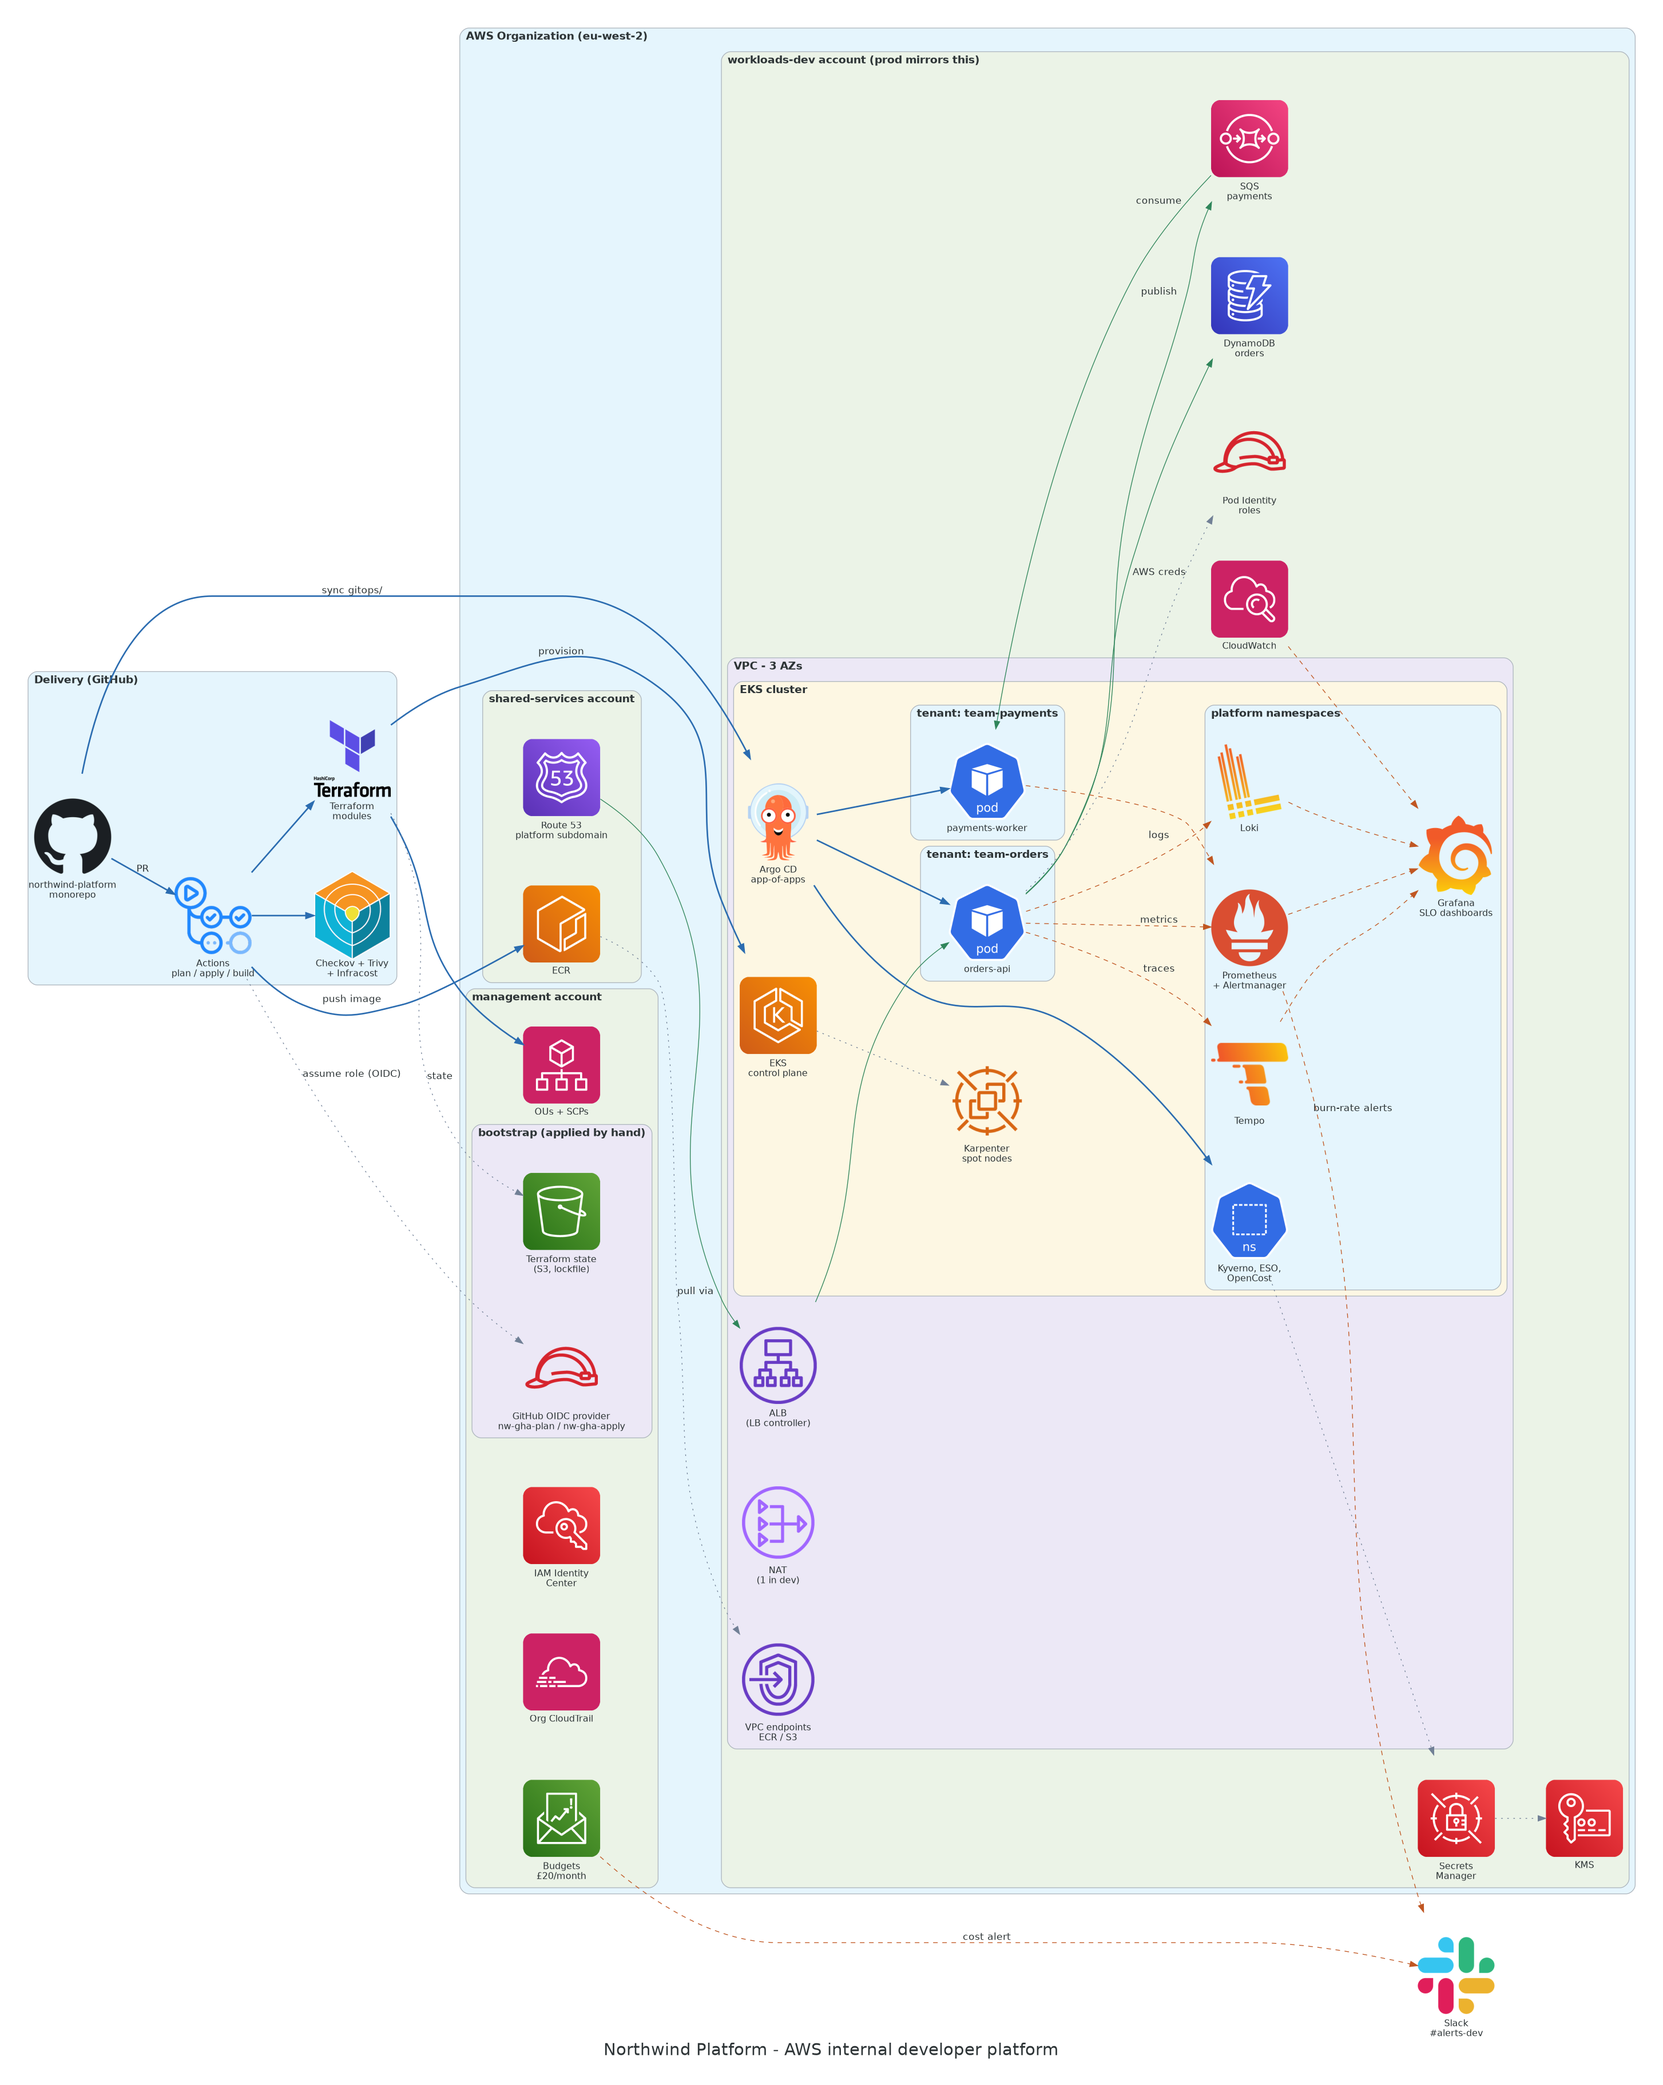
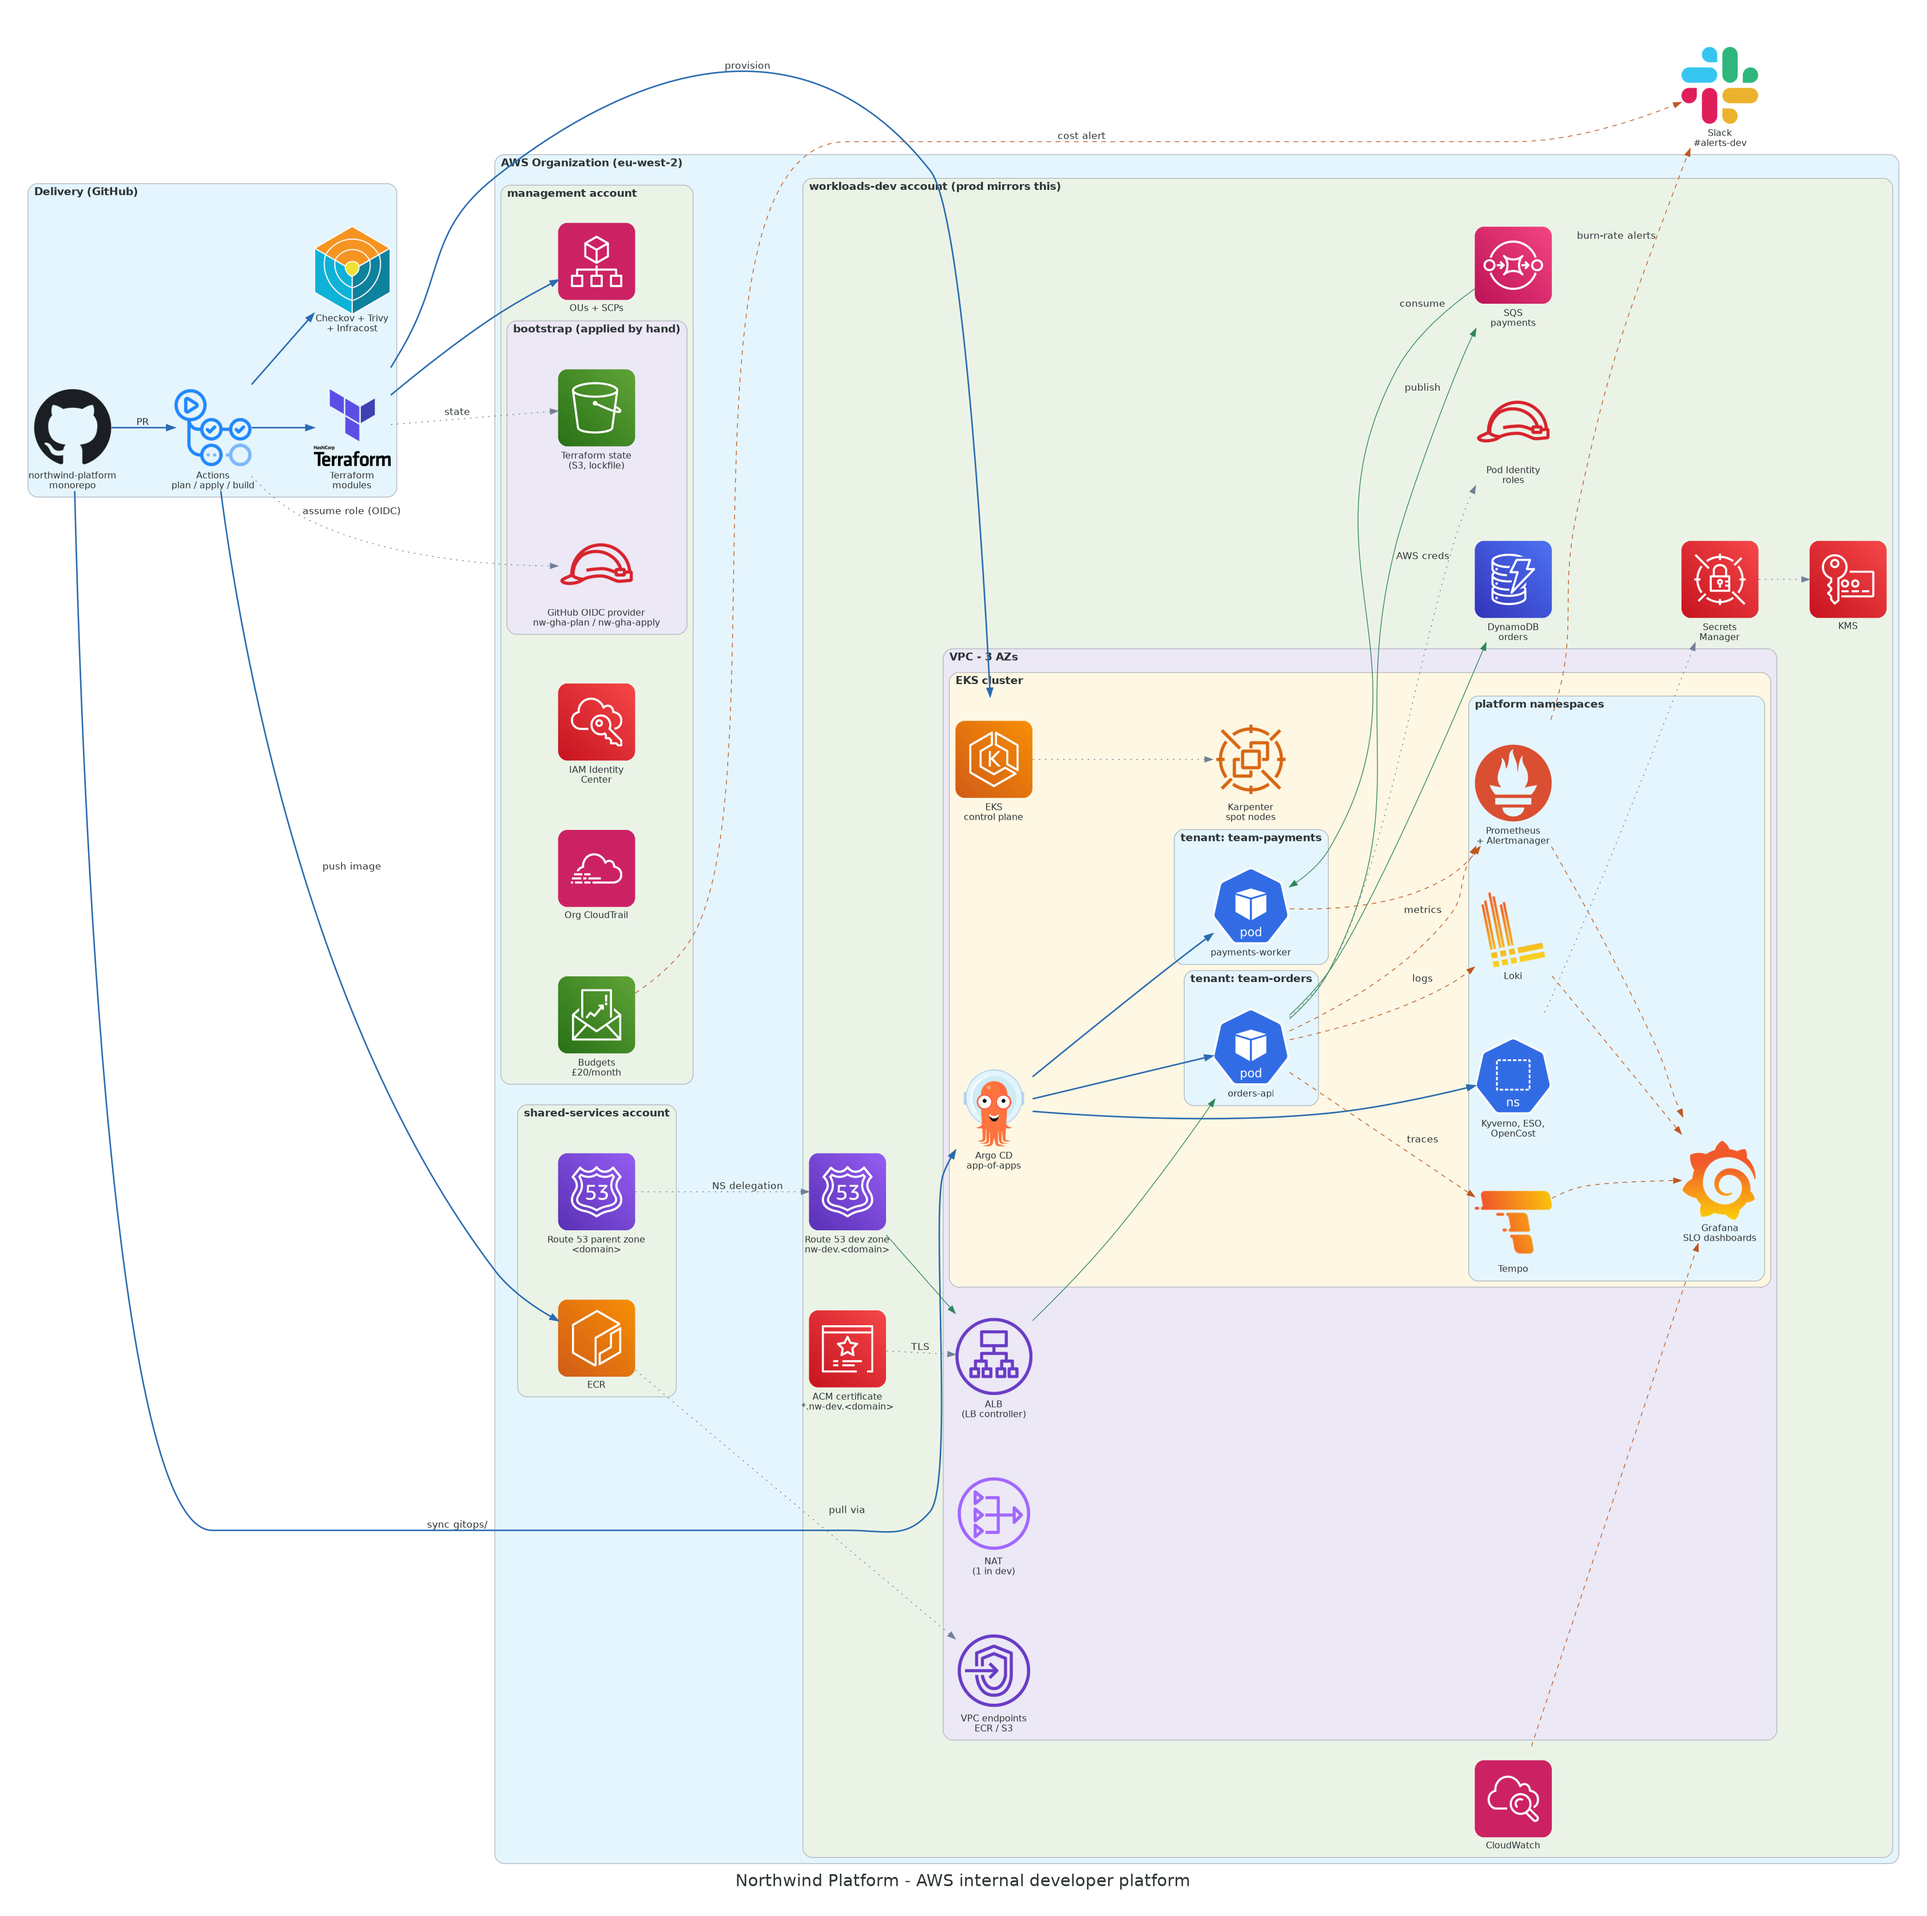
feat(dns): delegated zones and dev certificate
Host the registered domain in shared-services and delegate
nw-dev.<domain> to a zone in workloads-dev, with a wildcard ACM
certificate validated in that zone. Everything is in the long-lived
envs/shared stack, so make down never deletes it.

- ADR 0041 amended: the parent zone is the registered domain itself,
  because the registry delegates only that name. Subzones are renamed
  to nw-<env>.<domain>.
- modules/dns takes a second provider (configuration_aliases), so
  terraform_validate skips it on its own; envs/shared validates it.
- DNSSEC and query logging are skipped with reasons, tracked in #32.
- README and architecture diagram updated.

diff --git a/docs/diagrams/architecture.py b/docs/diagrams/architecture.py
@@ -33,6 +33,7 @@ from diagrams.aws.network import (
     Route53,
 )
 from diagrams.aws.security import (
+    CertificateManager,
     IdentityAndAccessManagementIamRole,
     KeyManagementService,
     SecretsManager,
@@ -118,11 +119,15 @@ def detailed() -> None:
 
             with Cluster("shared-services account", graph_attr=CLUSTER):
                 ecr = EC2ContainerRegistry("ECR")
-                dns = Route53("Route 53\nplatform subdomain")
+                parent_zone = Route53("Route 53 parent zone\n<domain>")
 
             with Cluster(
                 "workloads-dev account (prod mirrors this)", graph_attr=CLUSTER
             ):
+                # Outside the VPC cluster: `make down` destroys the VPC but never these (ADR 0041).
+                dev_zone = Route53("Route 53 dev zone\nnw-dev.<domain>")
+                cert = CertificateManager("ACM certificate\n*.nw-dev.<domain>")
+
                 with Cluster("VPC - 3 AZs", graph_attr=CLUSTER):
                     alb = ElbApplicationLoadBalancer("ALB\n(LB controller)")
                     nat = NATGateway("NAT\n(1 in dev)")
@@ -167,7 +172,10 @@ def detailed() -> None:
         argo >> deploy() >> policy
 
         # Runtime data paths (green)
-        dns >> data() >> alb >> data() >> orders
+        # Dotted: delegation and certificate are configuration, not request traffic.
+        parent_zone >> control("NS delegation") >> dev_zone
+        cert >> control("TLS") >> alb
+        dev_zone >> data() >> alb >> data() >> orders
         orders >> data() >> ddb
         orders >> data("publish") >> sqs
         sqs >> data("consume") >> worker

diff --git a/docs/adr/0041-delegated-dns-subzone-per-account.md b/docs/adr/0041-delegated-dns-subzone-per-account.md
@@ -2,6 +2,11 @@
 
 - **Status:** accepted
 - **Date:** 2026-11-19
+- **Amended:** 2026-11-23 - the parent zone is the registered domain itself (`<domain>`), not
+  `nw.<domain>`. The registry delegates only the registered name, and no zone hosted it, so a zone at
+  `nw.` would have needed a third zone above it. The subzones are
+  renamed to one label, `nw-<env>.<domain>` (was `<env>.nw.<domain>`), matching the resource naming
+  convention. One zone and one certificate per workload account is unchanged.
 
 ## Context
 From Week 3, services in the dev cluster need public hostnames and HTTPS. They will be served by
@@ -13,25 +18,31 @@ will be managed by ExternalDNS. Facts that shape the design:
 - Recreating a hosted zone gives it new name servers, so the delegation has to be redone, and
   any certificate validated in it has to be validated again. Validation takes minutes.
 - `terraform/envs/dev` is destroyed after every session by `make down`.
-- The parent domain is owned and registered outside this Terraform, so delegating to AWS is one
-  manual NS change at the registrar.
+- The domain is registered through Route 53 Domains in the management account, outside this
+  Terraform. Registration and DNS hosting are separate, so the zone can be in another account;
+  connecting them is one manual name-server change at the registrar.
+- The registry delegates only the registered name (`<domain>`). No registrar setting can delegate
+  `nw.<domain>` directly; that takes NS records in a zone for `<domain>`.
+- The domain has no other use. Its registration still listed the name servers of a zone that no
+  longer answers (a lame delegation), so moving it breaks nothing and removes a takeover risk.
 - Later, ExternalDNS in each cluster should only be able to change its own environment's records.
 
 ## Decision
-- **`nw.<domain>`**: a public hosted zone in `shared-services`. The NS records for it are added
-  once at the parent domain by hand; this ADR is the record of that manual step.
-- **`dev.nw.<domain>`**: a public hosted zone in `workloads-dev`, delegated by NS records in
-  `nw.<domain>`. A wildcard ACM certificate for `*.dev.nw.<domain>` is issued in `workloads-dev`
-  (`eu-west-2`) and validated by DNS in the dev zone.
+- **`<domain>`**: a public hosted zone in `shared-services`. Its four name servers are set once at
+  the registrar by hand, with management credentials; this ADR is the record of that manual step.
+- **`nw-dev.<domain>`**: a public hosted zone in `workloads-dev`, delegated by NS records for
+  it in the `<domain>` zone. A wildcard ACM certificate for `*.nw-dev.<domain>` is issued in
+  `workloads-dev` (`eu-west-2`) and validated by DNS in the dev zone.
 - **All of it lives in `terraform/envs/shared`**, the long-lived DNS stack. It uses two providers
   (`nw-shared`, and an alias for `nw-dev`, see ADR 0040). `make down` never touches it. Both zones
   have `prevent_destroy`.
-- `workloads-prod` gets the same shape later: `prod.nw.<domain>`, its own zone and certificate.
+- `workloads-prod` gets the same shape later: `nw-prod.<domain>`, its own zone and certificate.
 
 ## Alternatives considered
 | Option | Pros | Cons |
 | --- | --- | --- |
 | Subzone and certificate per account, delegated from a parent zone in a shared account (chosen) | The common AWS multi-account DNS pattern; each account owns its records; ExternalDNS gets a same-account, single-zone permission; certificate is where the ALB needs it | Two hosted zones always on ($1/month); applying the DNS stack needs credentials in two accounts |
+| A third zone: `<domain>`, then `nw.<domain>`, then `dev.nw.<domain>` (the original shape, plus the apex zone it needs) | Keeps the platform's names apart from any other use of the domain | $0.50/month more and one more delegation that can break, for a domain with no other use |
 | One zone in `shared-services`; workload accounts write records through a cross-account role | One zone to manage; common in small organisations | Certificates must still be issued in each workload account; a cross-account write role lets dev change prod records unless it is scoped carefully |
 | One wildcard certificate in `shared-services`, exported and imported into each account | One certificate | ALBs can't use another account's ACM certificate directly; exportable public certificates are a paid feature, and imported certificates are not renewed by ACM |
 | DNS at an external provider (for example Cloudflare), certificates from Let's Encrypt via cert-manager | Free certificates; widely used with Kubernetes | The ALB still needs an ACM certificate; another vendor's API token to store and rotate; DNS outside the AWS audit trail |
@@ -40,20 +51,22 @@ will be managed by ExternalDNS. Facts that shape the design:
 
 ## Consequences
 - After `make up`, HTTPS works right away: the zone and the issued certificate are already there.
-- Dev and prod are isolated at the DNS layer. A mistake in dev can't change `prod.nw.<domain>`.
+- Dev and prod are isolated at the DNS layer. A mistake in dev can't change `nw-prod.<domain>`.
 - Two hosted zones cost about $1/month in total, always on, inside the £20 budget. Queries cost
   a few cents at most.
-- `nw.<domain>` is a single point of failure for every environment: deleting it breaks all names.
+- `<domain>` is a single point of failure for every environment: deleting its zone breaks all names.
   `prevent_destroy` and the plan comment from ADR 0061 are the guards.
-- The wildcard covers one level only: `api.dev.nw.<domain>` works, `a.b.dev.nw.<domain>` does not.
+- The wildcard covers one level only: `api.nw-dev.<domain>` works, `a.b.nw-dev.<domain>` does not.
   Services get flat names.
-- The registrar's NS change is outside Terraform. If the `nw.<domain>` zone is ever recreated, the
-  NS records at the registrar must be updated by hand.
+- The registrar's name-server change is outside Terraform. If the `<domain>` zone is ever recreated,
+  the name servers at the registrar must be updated by hand.
+- The platform's zone now owns the whole domain. If the domain is ever used for something else, its
+  records go in this zone or in another delegated subzone.
 
 ## In short
-Each workload account has its own hosted zone and certificate, because an ALB can only use an
-ACM certificate from its own account and region. A parent zone in `shared-services` delegates a
-subzone to the dev account with NS records. Both zones and the certificate live in the
+I setup seperate hosted zones and certificate per account, because an ALB can only use an
+ACM certificate from its own account and region. The parent zone, for the registered domain itself, is in
+`shared-services` and delegates a subzone to the dev account with NS records. Both zones and the certificate live in the
 long-lived DNS stack, not the dev stack, so `make down` never deletes them and the delegation
 and certificate validation are not redone every session. Because each account owns its own zone,
 dev can never change prod's records. The two zones cost about $1/month, within budget. The

diff --git a/README.md b/README.md
@@ -9,8 +9,8 @@ validated with five incident drills.
 
 ![Architecture](docs/diagrams/architecture.png)
 
-<sub>Target architecture. Built so far: the AWS Organization, the bootstrap (state and OIDC roles)
-and the delivery pipeline. Generated from code:
+<sub>Target architecture. Built so far: the AWS Organization, the bootstrap (state and OIDC roles),
+the delivery pipeline, and the DNS zones and dev certificate. Generated from code:
 [`docs/diagrams/architecture.py`](docs/diagrams/architecture.py) · `make diagram`</sub>
 
 ---
@@ -36,7 +36,7 @@ self-service golden paths, so teams ship safely without waiting on a platform en
 
 | Skill | Where to look | Status |
 | --- | --- | --- |
-| AWS core: VPC, IAM, EKS, DynamoDB, SQS, KMS, Route 53 | IAM: [`terraform/bootstrap/`](terraform/bootstrap/), [`terraform/org/`](terraform/org/) · the rest: `terraform/modules/`, `terraform/envs/` | ✅ IAM · 🗓 Weeks 2–4 |
+| AWS core: VPC, IAM, EKS, DynamoDB, SQS, KMS, Route 53 | IAM: [`terraform/bootstrap/`](terraform/bootstrap/), [`terraform/org/`](terraform/org/) · Route 53: [`terraform/modules/dns/`](terraform/modules/dns/) · the rest: `terraform/modules/`, `terraform/envs/` | ✅ IAM, Route 53 · 🗓 Weeks 2–4 |
 | Infrastructure as Code (Terraform) | S3 remote state with native locking, pinned providers with lockfile hashes, imported console resources · modules and env split | ✅ state, pins, imports · 🗓 modules (Week 2) |
 | Multi-account governance | [`terraform/org/`](terraform/org/) — Organizations, deny-list SCPs, region lock, org CloudTrail, budget ([region deny](docs/evidence/2026-10-29-scp-region-deny.png), [trail event](docs/evidence/2026-10-29-cloudtrail-scp-deny-event.png)) | ✅ |
 | Kubernetes on EKS | Karpenter (spot), LB controller, Pod Identity | 🗓 Week 2 |
@@ -75,7 +75,8 @@ All screenshots live in [`docs/evidence/`](docs/evidence/).
 | Layer | Built with | Lifecycle |
 | --- | --- | --- |
 | AWS Organization — `management`, `shared-services`, `workloads-dev`, `workloads-prod` | Terraform | Persistent |
-| Shared services — ECR, Terraform state, Route 53 subdomain | Terraform | Persistent |
+| Shared services — ECR, Terraform state | Terraform | Persistent |
+| DNS — parent zone in `shared-services`, dev zone and wildcard certificate in `workloads-dev` ([ADR 0041](docs/adr/0041-delegated-dns-subzone-per-account.md)) | Terraform | Persistent |
 | Network — VPC, 3 AZs, NAT, VPC endpoints | Terraform | Per session |
 | EKS cluster — Karpenter, LB controller, Pod Identity | Terraform | Per session |
 | Platform services — monitoring, logging, tracing, policy, secrets, cost | Argo CD | Per session |
@@ -87,7 +88,7 @@ Design detail and trade-offs: [`docs/architecture.md`](docs/architecture.md) and
 
 ## Quick start
 
-Prerequisites: an AWS Organization management account, a domain with a subdomain you can delegate,
+Prerequisites: an AWS Organization management account, a registered domain whose name servers you can change,
 a GitHub repo, and a Slack webhook. All tooling is pinned in the [dev container](.devcontainer/).
 
 AWS access uses IAM Identity Center, with no long-lived keys. Add these profiles to `~/.aws/config`.
@@ -146,7 +147,7 @@ make down ENV=dev
 | State | Approximate cost |
 | --- | --- |
 | Session running (EKS, 2–3 spot nodes, NAT, ALB) | $0.35–0.50 per hour (about £2.50–3.50 per 8-hour session) |
-| Torn down (S3 state, ECR images, Route 53 zone, Secrets) | about £1–2 per month |
+| Torn down (S3 state, ECR images, two Route 53 zones, Secrets) | about £1–2 per month |
 | Budget alarm | £20 per month |
 
 Estimates; measured figures will replace them after Week 2.
